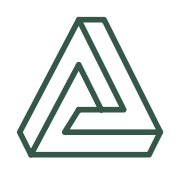
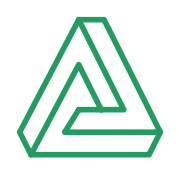
Use resume green as shared site accent

Changed region(s): [[0.0833, 0.0833, 0.9167, 0.8889]]

diff --git a/css/style.css b/css/style.css
@@ -19,7 +19,7 @@
   --paper: #f5f5f4;
   --ink: #292524;
   --muted: #66635f;
-  --green: #345748;
+  --accent: #249b62;
   --line: #d6d3d1;
   --font: "Hack", "SFMono-Regular", Consolas, monospace;
   background: var(--paper);
@@ -38,17 +38,16 @@ body {
   -webkit-font-smoothing: antialiased;
 }
 
-::selection { background: #dce6dc; color: var(--ink); }
+::selection { background: color-mix(in srgb, var(--accent) 20%, var(--paper)); color: var(--ink); }
 
 a {
-  color: var(--green);
-  text-decoration-thickness: 1px;
-  text-underline-offset: .22em;
+  color: inherit;
+  text-decoration: none;
   transition: color 140ms ease;
 }
 
-a:hover { color: #1e3d2e; }
-a:focus-visible { outline: 2px solid var(--green); outline-offset: 5px; }
+a:hover { color: var(--accent); }
+a:focus-visible { color: var(--accent); outline: 2px solid var(--accent); outline-offset: 5px; }
 
 .page {
   width: min(100% - 3rem, 44rem);
@@ -80,7 +79,7 @@ a:focus-visible { outline: 2px solid var(--green); outline-offset: 5px; }
   text-decoration: none;
 }
 
-.site-header nav a:hover { color: var(--green); text-decoration: underline; }
+.site-header nav a:hover, .site-header nav a:focus-visible { color: var(--accent); }
 
 main { margin-top: 3rem; }
 h1, p { margin: 0; }
@@ -116,7 +115,7 @@ h1 {
 }
 
 .site-footer small { font-size: .8125rem; line-height: 1.5; }
-.doodle { color: var(--green); transform: rotate(-7deg); }
+.doodle { color: var(--accent); transform: rotate(-7deg); }
 
 .skip-link {
   position: absolute;

diff --git a/index.html b/index.html
@@ -10,9 +10,9 @@
     <meta property="og:type" content="website">
     <meta property="og:url" content="https://abipanday.com/">
     <link rel="canonical" href="https://abipanday.com/">
-    <link rel="icon" href="/favicon.ico?v=penrose-transparent" sizes="16x16 32x32 48x48">
-    <link rel="icon" href="/assets/favicon-32.png?v=penrose-transparent" type="image/png" sizes="32x32">
-    <link rel="apple-touch-icon" href="/assets/apple-touch-icon.png?v=penrose-transparent" sizes="180x180">
+    <link rel="icon" href="/favicon.ico?v=penrose-249b62" sizes="16x16 32x32 48x48">
+    <link rel="icon" href="/assets/favicon-32.png?v=penrose-249b62" type="image/png" sizes="32x32">
+    <link rel="apple-touch-icon" href="/assets/apple-touch-icon.png?v=penrose-249b62" sizes="180x180">
     <link rel="preload" href="/assets/fonts/HackDejavu.woff2" as="font" type="font/woff2" crossorigin>
     <link rel="stylesheet" href="/css/style.css">
     <title>Abi Panday</title>

diff --git a/404.html b/404.html
@@ -4,9 +4,9 @@
     <meta charset="utf-8">
     <meta name="viewport" content="width=device-width, initial-scale=1">
     <meta name="robots" content="noindex">
-    <link rel="icon" href="/favicon.ico?v=penrose-transparent" sizes="16x16 32x32 48x48">
-    <link rel="icon" href="/assets/favicon-32.png?v=penrose-transparent" type="image/png" sizes="32x32">
-    <link rel="apple-touch-icon" href="/assets/apple-touch-icon.png?v=penrose-transparent" sizes="180x180">
+    <link rel="icon" href="/favicon.ico?v=penrose-249b62" sizes="16x16 32x32 48x48">
+    <link rel="icon" href="/assets/favicon-32.png?v=penrose-249b62" type="image/png" sizes="32x32">
+    <link rel="apple-touch-icon" href="/assets/apple-touch-icon.png?v=penrose-249b62" sizes="180x180">
     <link rel="stylesheet" href="/css/style.css">
     <title>Page not found · Abi Panday</title>
   </head>

diff --git a/README.md b/README.md
@@ -33,6 +33,9 @@ The Penrose-triangle icon's vector source is `assets/favicon.svg`. The browser
 favicon is a transparent 32px PNG, with a 16/32/48px `favicon.ico` fallback and
 a 180px Apple touch icon. Both HTML pages declare the same icons.
 
+The shared accent is `#249b62`, matching `green` in `../resume/settings.typ`.
+It is defined as `--accent` in the CSS and used in the icon source.
+
 ## Publish
 
 Commit and push to `main`. GitHub Pages publishes the repository root
